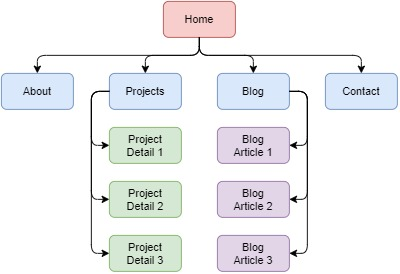
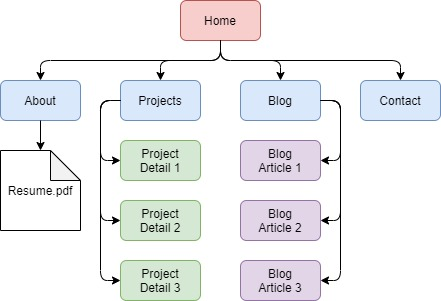
Updated sitemap.jpg and created README.md.

diff --git a/README.md b/README.md
@@ -1,0 +1,78 @@
+# JihyungKim_T1A2
+
+**Quick Summary**
+
+- Live portfolio website: https://jihyungkim.netlify.app.com
+- Github repository: https://github.com/jkim333/T1A2-Portfolio
+
+<br/>
+
+**Table of Contents**
+
+1. [Purpose](#purpose)
+1. [Functionality / features](#functionality)
+1. [Sitemap](#sitemap)
+1. [Screenshots](#screenshots)
+1. [Target audience](#target_audience)
+1. [Tech stack](#tech_stack)
+
+<br/>
+
+<h2 id="purpose">Purpose</h2>
+
+This portfolio website was developed to present myself to future employers and recruiters. The website contains a lot of information about myself, particularly my technical skills, description of projects that I have worked on, and my personality interests.
+
+I aim to connect with employers and recruiters using this portfolio website.
+
+<br/>
+
+<h2 id="functionality">Functionality / features</h2>
+
+This portfolio website provides a lot of information about myself, such as my technical skills, blog posts, and past projects that I have worked on. It also provides a downloadable link to a PDF of my resume, and a contact form which can be submitted by a user to reach out to me via email.
+
+This website is fully responsive and is tailored to all available displays, including desktop, mobile and tablet.
+
+Moreover, semantic HTML elements were added to provide meaning to the elements and improve accessiblity support for all users.
+
+<br/>
+
+<h2 id="sitemap">Sitemap</h2>
+
+All visitors to the website will firstly be directed to the 'Home' page as this is the index page. The 'Home' page provides links to 'About', 'Projects', 'Blog', and 'Contact' pages. This page will also provide a short snapshot and a link to the aforementioned pages. The description of each page is shown below:
+
+- 'About' page provides an overall introduction of myself, my technical skills, education background, work experience, and my personal interests. 'About' page also provides a downloadable link to a PDF of my resume.
+- 'Projects' page provides a list of my projects that I have worked on to date. Each project is provided with a link that leads users to 'Project Detail' page.
+- 'Blog' page provides a list of blogs that I have written. Each blog post is provided with a link that leads users to 'Blog Detail' page.
+- 'Contact' page provides a form for users to fill in to reach out to me via an email.
+
+![Sitemap of Jihyung's portfolio website](./docs/sitemap.jpg)
+
+<br/>
+
+<h2 id="screenshots">Screenshots</h2>
+
+screenshots...
+
+<br/>
+
+<h2 id="target_audience">Target audience</h2>
+
+The target audience of my portfolio are:
+
+- Employer looking to engage a developer
+- Recruiter looking to engage a developer
+- Clients looking to engage a developer to create a new website or a new web application for their business
+- Fellow developers looking to understand my technical capabilities
+
+<br/>
+
+<h2 id="tech_stack">Tech stack</h2>
+
+The technology used for the development of this portfolio project are listed below:
+
+- HTML5
+- CSS3
+- JavaScript
+- Git
+- GitHub
+- Netlify (used as a deployment platform)
